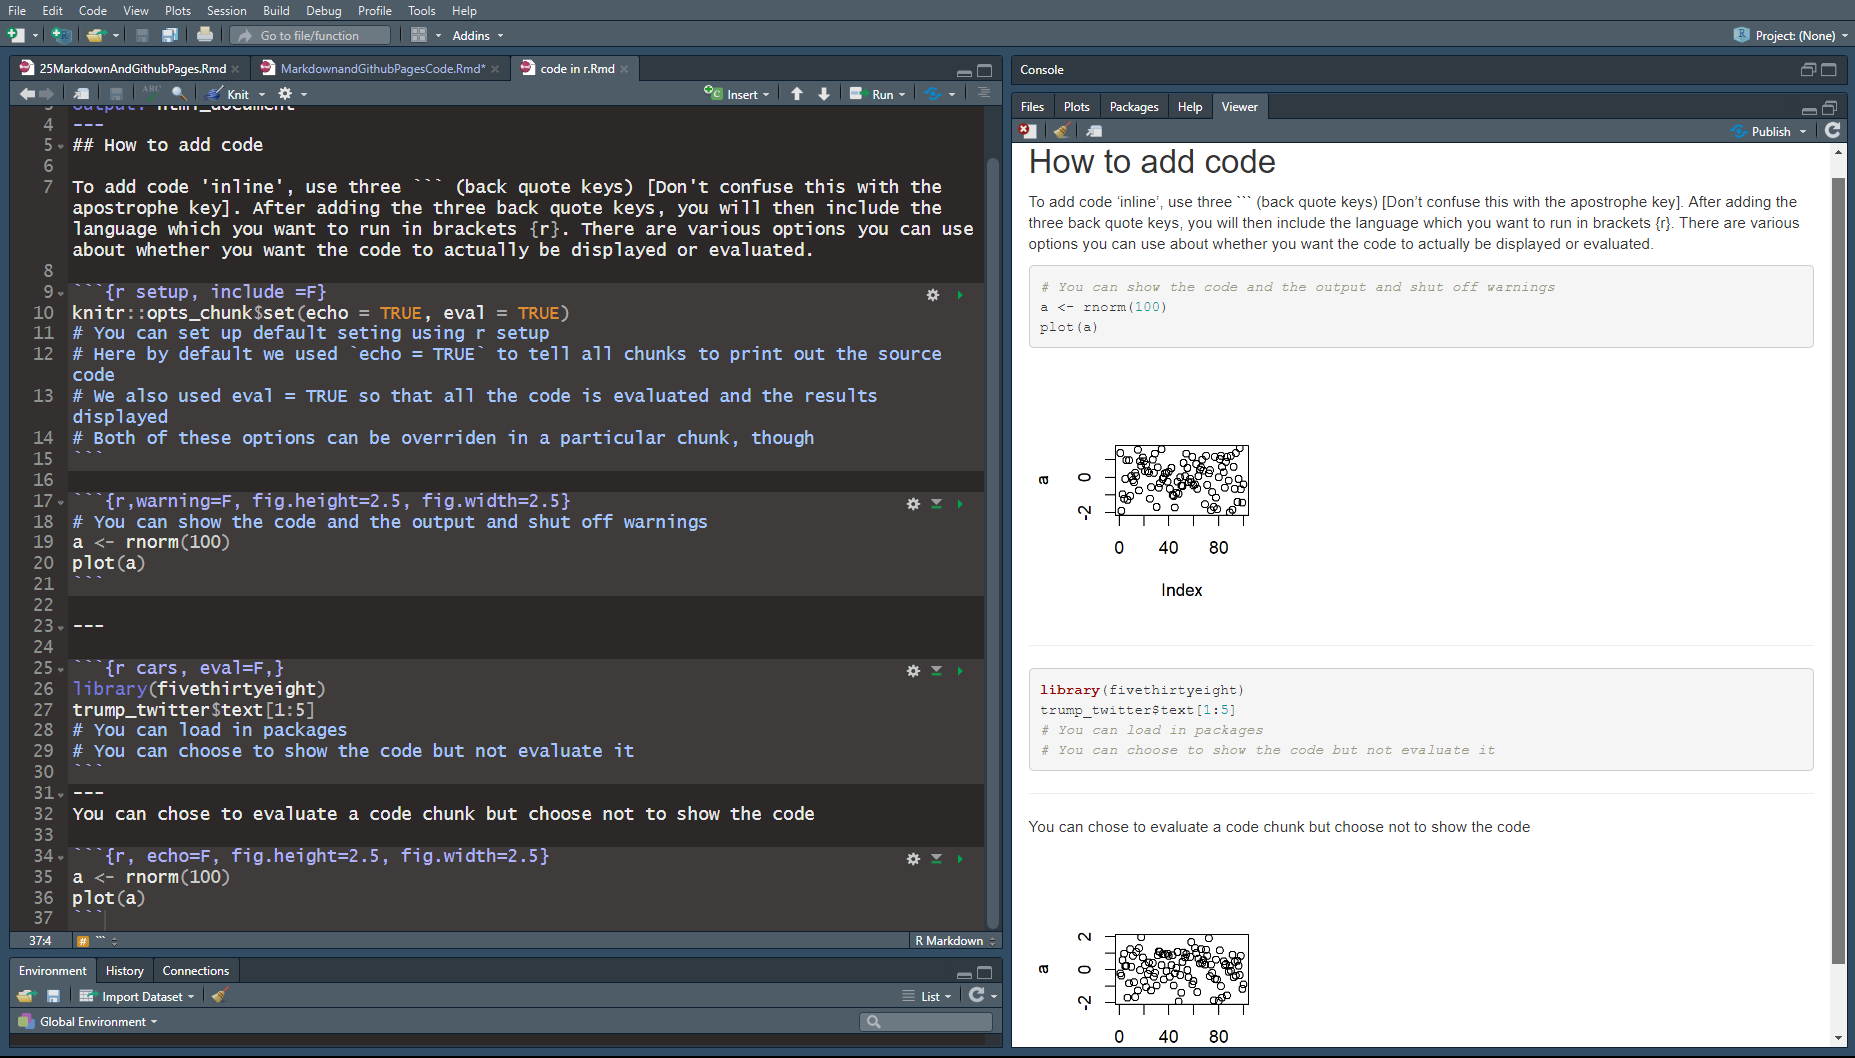
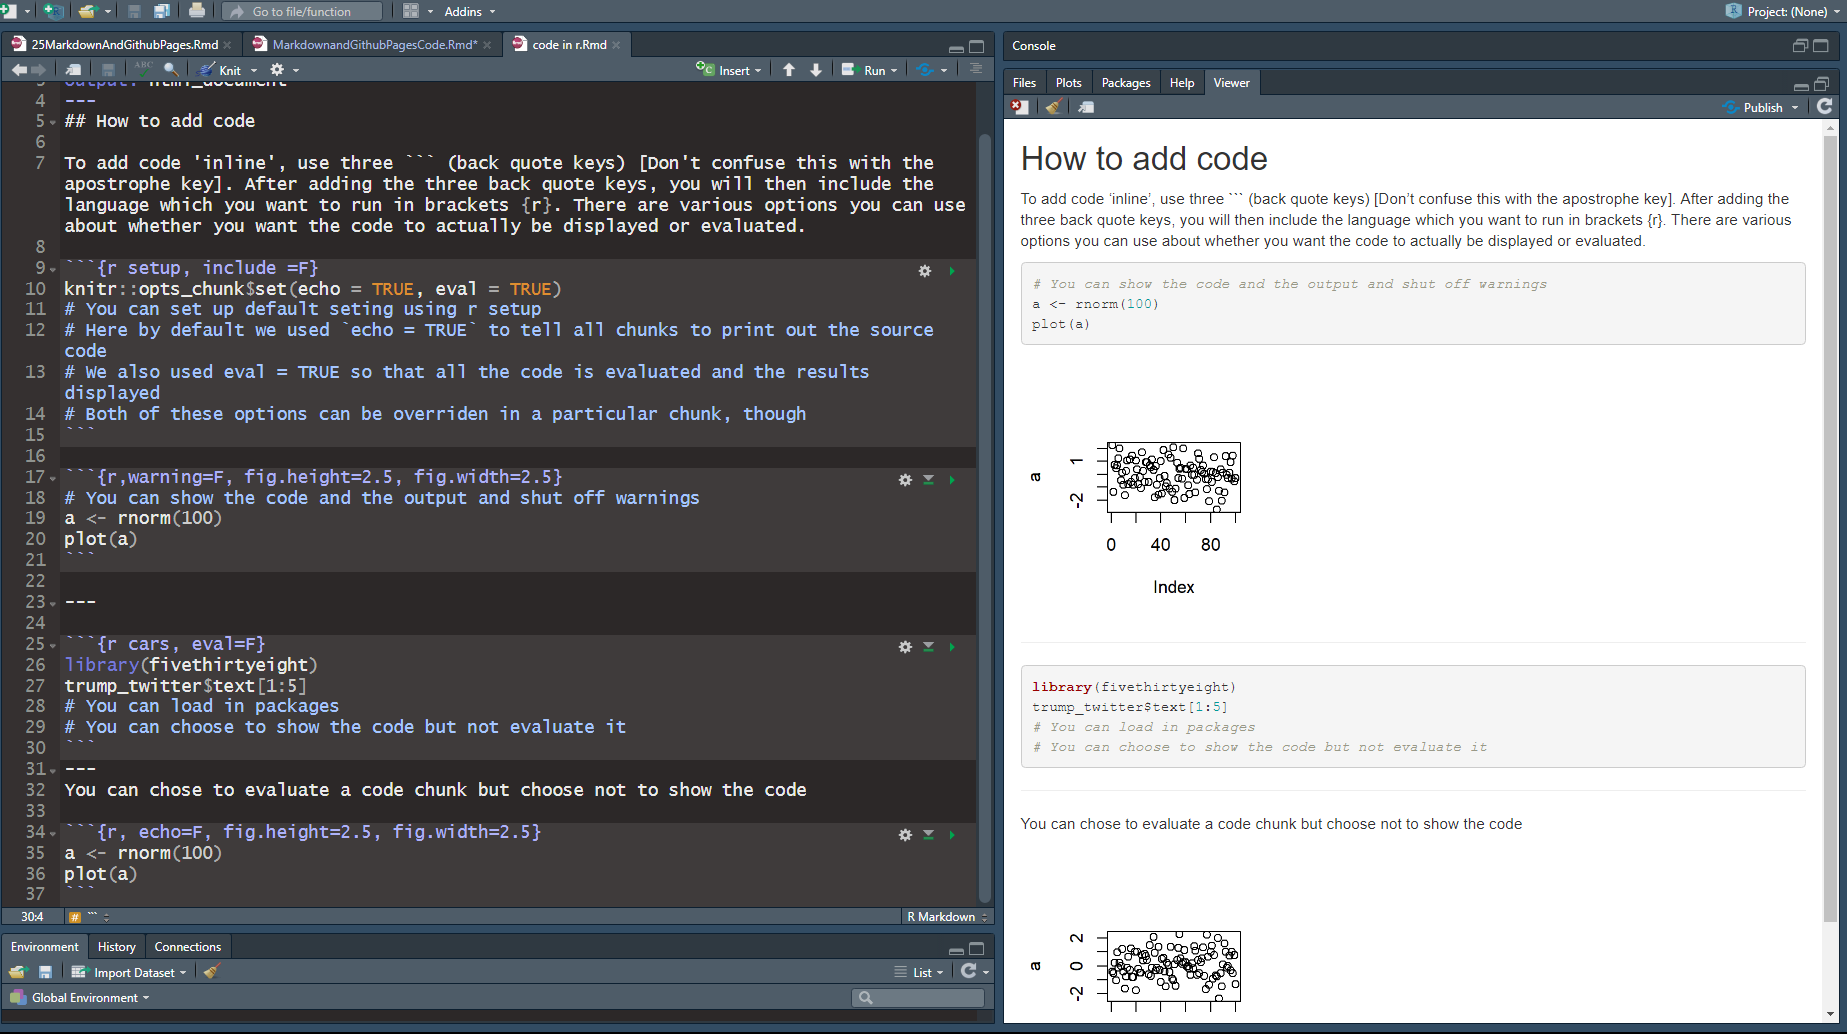
minor edits fix broken link

Changed region(s): [[0.0, 0.0, 1.0, 1.0], [0.6172, 0.5565, 0.6481, 0.5874]]

diff --git a/PDS/Slides/25MarkdownandGithubPages_files/code-in-r.html b/PDS/Slides/25MarkdownandGithubPages_files/code-in-r.html
@@ -371,7 +371,7 @@ summary {
 <pre class="r"><code># You can show the code and the output and shut off warnings
 a &lt;- rnorm(100)
 plot(a) </code></pre>
[2 lines of base64/hex data omitted]
 <hr />
 <pre class="r"><code>library(fivethirtyeight)
 trump_twitter$text[1:5]
@@ -379,7 +379,7 @@ trump_twitter$text[1:5]
 # You can choose to show the code but not evaluate it </code></pre>
 <hr />
 <p>You can chose to evaluate a code chunk but choose not to show the code</p>
[2 lines of base64/hex data omitted]
 </div>
 
 

diff --git a/PDS/Slides/25MarkdownAndGithubPages.html b/PDS/Slides/25MarkdownAndGithubPages.html
@@ -399,7 +399,7 @@ See?
       - Link to our class: politicaldatascience.com
       
     - Images 
-      - Use the following image: http://politicaldatascience.com/PDS/Slides/Images/image2.jpg
+      - Use the following image: http://politicaldatascience.com/PDS/Slides/Images/image2.png
       
     - Code chunks
       - Load in the `fivethirtyeight` package into your chunk
